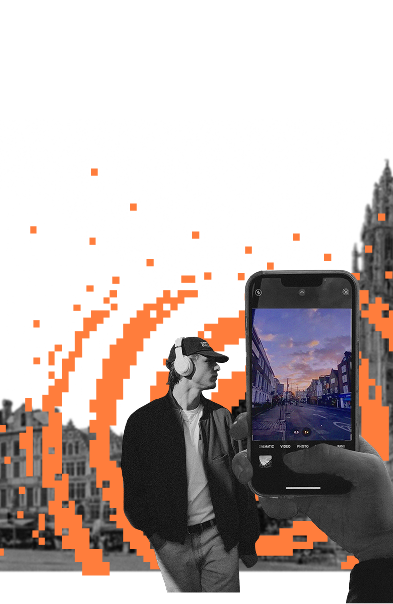
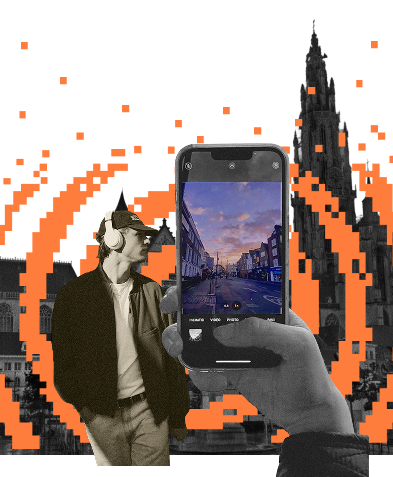
feat: update background asset, refine CSS typography, and standardize SVG markup in Home page

diff --git a/frontend/src/pages/Home.jsx b/frontend/src/pages/Home.jsx
@@ -12,7 +12,7 @@ import pano4 from '../assets/images/pano4.jpeg';
 //icons
 import antwerpLogo from '../assets/images/antwerpLogo.png';
 import logoAntwerpScenes from '../assets/images/logoantwerpscenes.png';
-import backgroundMoments from '../assets/images/cathedral_moments.png';
+import backgroundMoments from '../assets/images/backgroundmoments.png';
 import backgroundMomentsDesktop from '../assets/images/cathedral_moments.png';
 import qrCodeImg from '../assets/images/qrradar.png';
 import HeartIcon from '../assets/icons/Heart';
@@ -324,7 +324,7 @@ export default function Home({ userLocation }) {
             aria-label="Previous Panorama"
           >
             <svg width="18" height="18" viewBox="0 0 18 18" fill="none" xmlns="http://www.w3.org/2000/svg">
-              <path d="M11.25 13.5L6.75 9L11.25 4.5" stroke="white" strokeWidth="1.5" strokeLinecap="round" strokeLinejoin="round"/>
+              <path d="M11.25 13.5L6.75 9L11.25 4.5" stroke="white" strokeWidth="1.5" strokeLinecap="round" strokeLinejoin="round" />
             </svg>
           </button>
           <button
@@ -333,7 +333,7 @@ export default function Home({ userLocation }) {
             aria-label="Next Panorama"
           >
             <svg width="18" height="18" viewBox="0 0 18 18" fill="none" xmlns="http://www.w3.org/2000/svg">
-              <path d="M6.75 13.5L11.25 9L6.75 4.5" stroke="white" strokeWidth="1.5" strokeLinecap="round" strokeLinejoin="round"/>
+              <path d="M6.75 13.5L11.25 9L6.75 4.5" stroke="white" strokeWidth="1.5" strokeLinecap="round" strokeLinejoin="round" />
             </svg>
           </button>
         </div>
@@ -387,7 +387,7 @@ export default function Home({ userLocation }) {
           </div>
           <Link to="/radar-explained" className={styles['home__pano-extra-box-info-btn']}>
             <svg width="23" height="23" viewBox="0 0 23 23" fill="none" xmlns="http://www.w3.org/2000/svg">
-              <path d="M11.2041 22.4082C5.0166 22.4082 0 17.3916 0 11.2041C0 5.0166 5.0166 0 11.2041 0C17.3916 0 22.4082 5.0166 22.4082 11.2041C22.4082 17.3916 17.3916 22.4082 11.2041 22.4082ZM11.2041 19.9482C16.0381 19.9482 19.9482 16.0381 19.9482 11.2041C19.9482 6.37012 16.0381 2.45996 11.2041 2.45996C6.37012 2.45996 2.45996 6.37012 2.45996 11.2041C2.45996 16.0381 6.37012 19.9482 11.2041 19.9482ZM11.1611 7.83105C10.3447 7.83105 9.66797 7.16504 9.66797 6.34863C9.66797 5.5 10.3447 4.84473 11.1611 4.84473C11.9883 4.84473 12.6543 5.5 12.6543 6.34863C12.6543 7.16504 11.9883 7.83105 11.1611 7.83105ZM9.32422 17.0371C8.83008 17.0371 8.43262 16.6719 8.43262 16.1562C8.43262 15.6836 8.83008 15.2969 9.32422 15.2969H10.5596V11.1396H9.51758C9.0127 11.1396 8.62598 10.7852 8.62598 10.2695C8.62598 9.78613 9.0127 9.41016 9.51758 9.41016H11.5479C12.1816 9.41016 12.5146 9.85059 12.5146 10.5273V15.2969H13.6211C14.1152 15.2969 14.5127 15.6836 14.5127 16.1562C14.5127 16.6719 14.1152 17.0371 13.6211 17.0371H9.32422Z" fill="#FF82DC"/>
+              <path d="M11.2041 22.4082C5.0166 22.4082 0 17.3916 0 11.2041C0 5.0166 5.0166 0 11.2041 0C17.3916 0 22.4082 5.0166 22.4082 11.2041C22.4082 17.3916 17.3916 22.4082 11.2041 22.4082ZM11.2041 19.9482C16.0381 19.9482 19.9482 16.0381 19.9482 11.2041C19.9482 6.37012 16.0381 2.45996 11.2041 2.45996C6.37012 2.45996 2.45996 6.37012 2.45996 11.2041C2.45996 16.0381 6.37012 19.9482 11.2041 19.9482ZM11.1611 7.83105C10.3447 7.83105 9.66797 7.16504 9.66797 6.34863C9.66797 5.5 10.3447 4.84473 11.1611 4.84473C11.9883 4.84473 12.6543 5.5 12.6543 6.34863C12.6543 7.16504 11.9883 7.83105 11.1611 7.83105ZM9.32422 17.0371C8.83008 17.0371 8.43262 16.6719 8.43262 16.1562C8.43262 15.6836 8.83008 15.2969 9.32422 15.2969H10.5596V11.1396H9.51758C9.0127 11.1396 8.62598 10.7852 8.62598 10.2695C8.62598 9.78613 9.0127 9.41016 9.51758 9.41016H11.5479C12.1816 9.41016 12.5146 9.85059 12.5146 10.5273V15.2969H13.6211C14.1152 15.2969 14.5127 15.6836 14.5127 16.1562C14.5127 16.6719 14.1152 17.0371 13.6211 17.0371H9.32422Z" fill="#FF82DC" />
             </svg>
             <span>More info</span>
           </Link>
@@ -498,7 +498,7 @@ export default function Home({ userLocation }) {
             aria-label="Previous Stories"
           >
             <svg width="18" height="18" viewBox="0 0 18 18" fill="none" xmlns="http://www.w3.org/2000/svg">
-              <path d="M11.25 13.5L6.75 9L11.25 4.5" stroke="white" strokeWidth="1.5" strokeLinecap="round" strokeLinejoin="round"/>
+              <path d="M11.25 13.5L6.75 9L11.25 4.5" stroke="white" strokeWidth="1.5" strokeLinecap="round" strokeLinejoin="round" />
             </svg>
           </button>
           <button
@@ -507,7 +507,7 @@ export default function Home({ userLocation }) {
             aria-label="Next Stories"
           >
             <svg width="18" height="18" viewBox="0 0 18 18" fill="none" xmlns="http://www.w3.org/2000/svg">
-              <path d="M6.75 13.5L11.25 9L6.75 4.5" stroke="white" strokeWidth="1.5" strokeLinecap="round" strokeLinejoin="round"/>
+              <path d="M6.75 13.5L11.25 9L6.75 4.5" stroke="white" strokeWidth="1.5" strokeLinecap="round" strokeLinejoin="round" />
             </svg>
           </button>
         </div>
@@ -529,30 +529,30 @@ export default function Home({ userLocation }) {
 
           <div className={styles['home__left-actions-desktop']}>
             <div className={styles['home__filters-desktop']}>
-              <button 
+              <button
                 className={`${styles['home__filter-btn-desktop']} ${homeFilter === 'All' ? styles['home__filter-btn-desktop--active'] : ''}`}
                 onClick={() => setHomeFilter('All')}
               >
                 <svg width="15" height="15" viewBox="0 0 15 15" fill="none" xmlns="http://www.w3.org/2000/svg">
-                  <path d="M11.5078 6.89062C9.60156 6.89062 8.0625 5.35156 8.0625 3.44531C8.0625 1.53906 9.60156 0 11.5078 0C13.4141 0 14.9531 1.53906 14.9531 3.44531C14.9531 5.35156 13.4141 6.89062 11.5078 6.89062ZM3.44531 6.89062C1.53906 6.89062 0 5.35156 0 3.44531C0 1.54688 1.53906 0 3.44531 0C5.35156 0 6.89062 1.54688 6.89062 3.44531C6.89062 5.35156 5.35156 6.89062 3.44531 6.89062ZM11.5078 14.9453C9.60156 14.9453 8.0625 13.4062 8.0625 11.5C8.0625 9.60156 9.60156 8.05469 11.5078 8.05469C13.4141 8.05469 14.9531 9.60156 14.9531 11.5C14.9531 13.4062 13.4141 14.9453 11.5078 14.9453ZM3.44531 14.9531C1.53906 14.9531 0 13.4062 0 11.5078C0 9.60156 1.53906 8.0625 3.44531 8.0625C5.35156 8.0625 6.89062 9.60156 6.89062 11.5078C6.89062 13.4062 5.35156 14.9531 3.44531 14.9531Z" fill="currentColor"/>
+                  <path d="M11.5078 6.89062C9.60156 6.89062 8.0625 5.35156 8.0625 3.44531C8.0625 1.53906 9.60156 0 11.5078 0C13.4141 0 14.9531 1.53906 14.9531 3.44531C14.9531 5.35156 13.4141 6.89062 11.5078 6.89062ZM3.44531 6.89062C1.53906 6.89062 0 5.35156 0 3.44531C0 1.54688 1.53906 0 3.44531 0C5.35156 0 6.89062 1.54688 6.89062 3.44531C6.89062 5.35156 5.35156 6.89062 3.44531 6.89062ZM11.5078 14.9453C9.60156 14.9453 8.0625 13.4062 8.0625 11.5C8.0625 9.60156 9.60156 8.05469 11.5078 8.05469C13.4141 8.05469 14.9531 9.60156 14.9531 11.5C14.9531 13.4062 13.4141 14.9453 11.5078 14.9453ZM3.44531 14.9531C1.53906 14.9531 0 13.4062 0 11.5078C0 9.60156 1.53906 8.0625 3.44531 8.0625C5.35156 8.0625 6.89062 9.60156 6.89062 11.5078C6.89062 13.4062 5.35156 14.9531 3.44531 14.9531Z" fill="currentColor" />
                 </svg>
                 <span>ALL</span>
               </button>
-              <button 
+              <button
                 className={`${styles['home__filter-btn-desktop']} ${homeFilter === 'Locals' ? styles['home__filter-btn-desktop--active'] : ''}`}
                 onClick={() => setHomeFilter('Locals')}
               >
                 <svg width="22" height="15" viewBox="0 0 22 15" fill="none" xmlns="http://www.w3.org/2000/svg">
-                  <path d="M15.1094 7.39844C13.1953 7.39844 11.6562 5.72656 11.6562 3.66406C11.6562 1.64844 13.2109 0 15.1094 0C17.0156 0 18.5547 1.625 18.5547 3.65625C18.5547 5.71875 17.0156 7.39844 15.1094 7.39844ZM6.01562 7.49219C4.35938 7.49219 3.00781 6.03125 3.00781 4.21094C3.00781 2.45312 4.36719 0.992188 6.01562 0.992188C7.67969 0.992188 9.02344 2.42969 9.02344 4.20312C9.02344 6.02344 7.67969 7.49219 6.01562 7.49219ZM15.1094 5.91406C16.1562 5.91406 17.0234 4.92188 17.0234 3.65625C17.0234 2.42188 16.1562 1.48438 15.1094 1.48438C14.0703 1.48438 13.1953 2.4375 13.1953 3.66406C13.1953 4.9375 14.0703 5.91406 15.1094 5.91406ZM6.01562 6.03125C6.85938 6.03125 7.57031 5.23438 7.57031 4.20312C7.57031 3.22656 6.86719 2.44531 6.01562 2.44531C5.17188 2.44531 4.46094 3.24219 4.46094 4.21094C4.46094 5.23438 5.17188 6.03125 6.01562 6.03125ZM1.74219 14.6875C0.578125 14.6875 0 14.1797 0 13.2109C0 10.6172 2.6875 8.25781 6.00781 8.25781C7.17969 8.25781 8.42969 8.57812 9.40625 9.15625C8.92969 9.46094 8.57812 9.82812 8.30469 10.25C7.67969 9.91406 6.8125 9.71094 6.00781 9.71094C3.57812 9.71094 1.54688 11.3516 1.54688 13.0469C1.54688 13.1719 1.60156 13.2344 1.74219 13.2344H7.07812C7.02344 13.7891 7.30469 14.4141 7.76562 14.6875H1.74219ZM10.2578 14.6875C8.875 14.6875 8.20312 14.2344 8.20312 13.2734C8.20312 11.0703 10.9453 8.26562 15.1016 8.26562C19.2656 8.26562 22.0078 11.0703 22.0078 13.2734C22.0078 14.2344 21.3281 14.6875 19.9453 14.6875H10.2578ZM10.0859 13.2031H20.1172C20.2891 13.2031 20.3516 13.1484 20.3516 13.0156C20.3516 11.8828 18.4531 9.75 15.1016 9.75C11.75 9.75 9.85938 11.8828 9.85938 13.0156C9.85938 13.1484 9.92188 13.2031 10.0859 13.2031Z" fill="currentColor"/>
+                  <path d="M15.1094 7.39844C13.1953 7.39844 11.6562 5.72656 11.6562 3.66406C11.6562 1.64844 13.2109 0 15.1094 0C17.0156 0 18.5547 1.625 18.5547 3.65625C18.5547 5.71875 17.0156 7.39844 15.1094 7.39844ZM6.01562 7.49219C4.35938 7.49219 3.00781 6.03125 3.00781 4.21094C3.00781 2.45312 4.36719 0.992188 6.01562 0.992188C7.67969 0.992188 9.02344 2.42969 9.02344 4.20312C9.02344 6.02344 7.67969 7.49219 6.01562 7.49219ZM15.1094 5.91406C16.1562 5.91406 17.0234 4.92188 17.0234 3.65625C17.0234 2.42188 16.1562 1.48438 15.1094 1.48438C14.0703 1.48438 13.1953 2.4375 13.1953 3.66406C13.1953 4.9375 14.0703 5.91406 15.1094 5.91406ZM6.01562 6.03125C6.85938 6.03125 7.57031 5.23438 7.57031 4.20312C7.57031 3.22656 6.86719 2.44531 6.01562 2.44531C5.17188 2.44531 4.46094 3.24219 4.46094 4.21094C4.46094 5.23438 5.17188 6.03125 6.01562 6.03125ZM1.74219 14.6875C0.578125 14.6875 0 14.1797 0 13.2109C0 10.6172 2.6875 8.25781 6.00781 8.25781C7.17969 8.25781 8.42969 8.57812 9.40625 9.15625C8.92969 9.46094 8.57812 9.82812 8.30469 10.25C7.67969 9.91406 6.8125 9.71094 6.00781 9.71094C3.57812 9.71094 1.54688 11.3516 1.54688 13.0469C1.54688 13.1719 1.60156 13.2344 1.74219 13.2344H7.07812C7.02344 13.7891 7.30469 14.4141 7.76562 14.6875H1.74219ZM10.2578 14.6875C8.875 14.6875 8.20312 14.2344 8.20312 13.2734C8.20312 11.0703 10.9453 8.26562 15.1016 8.26562C19.2656 8.26562 22.0078 11.0703 22.0078 13.2734C22.0078 14.2344 21.3281 14.6875 19.9453 14.6875H10.2578ZM10.0859 13.2031H20.1172C20.2891 13.2031 20.3516 13.1484 20.3516 13.0156C20.3516 11.8828 18.4531 9.75 15.1016 9.75C11.75 9.75 9.85938 11.8828 9.85938 13.0156C9.85938 13.1484 9.92188 13.2031 10.0859 13.2031Z" fill="currentColor" />
                 </svg>
                 <span>Locals</span>
               </button>
-              <button 
+              <button
                 className={`${styles['home__filter-btn-desktop']} ${homeFilter === 'Visitors' ? styles['home__filter-btn-desktop--active'] : ''}`}
                 onClick={() => setHomeFilter('Visitors')}
               >
                 <svg width="17" height="17" viewBox="0 0 17 17" fill="none" xmlns="http://www.w3.org/2000/svg">
-                  <path d="M8.14844 16.2969C3.64844 16.2969 0 12.6484 0 8.14844C0 3.64844 3.64844 0 8.14844 0C12.6484 0 16.2969 3.64844 16.2969 8.14844C16.2969 12.6484 12.6484 16.2969 8.14844 16.2969ZM6.14844 6.50781C6.54688 6.64062 6.96094 6.74219 7.375 6.82031C7.52344 4.92969 8.08594 3.09375 9.00781 1.45312C8.92969 1.4375 8.84375 1.42969 8.76562 1.42188C7.44531 2.64062 6.42969 4.11719 5.78125 5.75C5.97656 5.94531 6.10938 6.21094 6.14844 6.50781ZM2.60156 4.29688C3.07031 4.77344 3.58594 5.1875 4.13281 5.54688C4.30469 5.44531 4.49219 5.375 4.70312 5.35938C5.26562 3.9375 6.07812 2.625 7.10938 1.47656C5.25 1.76562 3.64062 2.8125 2.60156 4.29688ZM10.7031 4.32812C10.7031 4.89844 10.7656 5.46094 10.8828 6C11.2656 6.01562 11.6094 6.1875 11.8438 6.46094C12.6953 6.16406 13.4922 5.73438 14.2188 5.1875C13.5391 3.79688 12.3984 2.67969 11 2.02344C10.7891 2.77344 10.6953 3.55469 10.7031 4.32812ZM9.55469 4.33594C9.54688 3.74219 9.59375 3.16406 9.69531 2.59375C9.03125 3.94531 8.63281 5.41406 8.52344 6.94531C8.67188 6.95312 8.82031 6.95312 8.96875 6.95312C9.17188 6.95312 9.375 6.94531 9.57031 6.92969C9.625 6.76562 9.70312 6.61719 9.8125 6.48438C9.64844 5.78906 9.55469 5.07031 9.55469 4.33594ZM1.39844 8.14844C1.39844 8.21875 1.39844 8.29688 1.39844 8.375C2.14062 9 2.94531 9.52344 3.78125 9.94531C3.79688 9.19531 3.875 8.46094 4.00781 7.73438C3.69531 7.48438 3.49219 7.10938 3.49219 6.67969C3.49219 6.625 3.5 6.57031 3.5 6.51562C2.96875 6.17188 2.46875 5.78125 2.00781 5.34375C1.61719 6.19531 1.39844 7.14844 1.39844 8.14844ZM14.8984 8.14844C14.8984 7.50781 14.8125 6.89844 14.6484 6.3125C13.875 6.85156 13.0312 7.27344 12.1406 7.57812C12.0859 7.86719 11.9453 8.125 11.7344 8.3125C12.1641 9.10156 12.7266 9.82031 13.3984 10.4375C13.8359 10.2656 14.2656 10.0703 14.6875 9.84375C14.8281 9.30469 14.8984 8.73438 14.8984 8.14844ZM4.92969 10.4531C5.70312 10.7422 6.50781 10.9531 7.32031 11.0781C7.39844 10.9219 7.51562 10.7891 7.64844 10.6797C7.45312 9.79688 7.35156 8.89062 7.33594 7.96875C6.8125 7.89062 6.29688 7.76562 5.79688 7.60156C5.61719 7.78906 5.39062 7.92188 5.125 7.98438C4.97656 8.78906 4.91406 9.61719 4.92969 10.4531ZM8.96875 8.10156C8.8125 8.10156 8.64844 8.09375 8.49219 8.09375C8.50781 8.875 8.60156 9.64844 8.77344 10.4062C9.21094 10.5 9.57031 10.8047 9.73438 11.2109C10.5547 11.1641 11.3672 11.0391 12.1719 10.8281C11.5469 10.1797 11.0234 9.4375 10.6094 8.64062C10.25 8.57812 9.9375 8.36719 9.73438 8.07031C9.48438 8.08594 9.22656 8.10156 8.96875 8.10156ZM1.66406 10.0234C2.08594 11.4922 2.99219 12.75 4.19531 13.625C3.99219 12.8359 3.85938 12.0391 3.8125 11.2344C3.0625 10.9062 2.34375 10.5 1.66406 10.0234ZM8.14844 14.8984C8.55469 14.8984 8.96094 14.8594 9.34375 14.7891C8.99219 14.2344 8.6875 13.6562 8.42969 13.0625C7.89062 13.0312 7.44531 12.6953 7.25781 12.2266C6.49219 12.1172 5.73438 11.9375 5 11.6953C5.10938 12.6328 5.32812 13.5469 5.67188 14.4297C6.4375 14.7344 7.27344 14.8984 8.14844 14.8984ZM9.49219 12.6172C9.77344 13.2656 10.1172 13.8828 10.5078 14.4766C11.7734 14 12.8516 13.1641 13.625 12.0938C13.4688 11.9766 13.3125 11.8594 13.1562 11.7422C12.0234 12.1094 10.8516 12.3125 9.67969 12.3594C9.625 12.4531 9.5625 12.5391 9.49219 12.6172Z" fill="currentColor"/>
+                  <path d="M8.14844 16.2969C3.64844 16.2969 0 12.6484 0 8.14844C0 3.64844 3.64844 0 8.14844 0C12.6484 0 16.2969 3.64844 16.2969 8.14844C16.2969 12.6484 12.6484 16.2969 8.14844 16.2969ZM6.14844 6.50781C6.54688 6.64062 6.96094 6.74219 7.375 6.82031C7.52344 4.92969 8.08594 3.09375 9.00781 1.45312C8.92969 1.4375 8.84375 1.42969 8.76562 1.42188C7.44531 2.64062 6.42969 4.11719 5.78125 5.75C5.97656 5.94531 6.10938 6.21094 6.14844 6.50781ZM2.60156 4.29688C3.07031 4.77344 3.58594 5.1875 4.13281 5.54688C4.30469 5.44531 4.49219 5.375 4.70312 5.35938C5.26562 3.9375 6.07812 2.625 7.10938 1.47656C5.25 1.76562 3.64062 2.8125 2.60156 4.29688ZM10.7031 4.32812C10.7031 4.89844 10.7656 5.46094 10.8828 6C11.2656 6.01562 11.6094 6.1875 11.8438 6.46094C12.6953 6.16406 13.4922 5.73438 14.2188 5.1875C13.5391 3.79688 12.3984 2.67969 11 2.02344C10.7891 2.77344 10.6953 3.55469 10.7031 4.32812ZM9.55469 4.33594C9.54688 3.74219 9.59375 3.16406 9.69531 2.59375C9.03125 3.94531 8.63281 5.41406 8.52344 6.94531C8.67188 6.95312 8.82031 6.95312 8.96875 6.95312C9.17188 6.95312 9.375 6.94531 9.57031 6.92969C9.625 6.76562 9.70312 6.61719 9.8125 6.48438C9.64844 5.78906 9.55469 5.07031 9.55469 4.33594ZM1.39844 8.14844C1.39844 8.21875 1.39844 8.29688 1.39844 8.375C2.14062 9 2.94531 9.52344 3.78125 9.94531C3.79688 9.19531 3.875 8.46094 4.00781 7.73438C3.69531 7.48438 3.49219 7.10938 3.49219 6.67969C3.49219 6.625 3.5 6.57031 3.5 6.51562C2.96875 6.17188 2.46875 5.78125 2.00781 5.34375C1.61719 6.19531 1.39844 7.14844 1.39844 8.14844ZM14.8984 8.14844C14.8984 7.50781 14.8125 6.89844 14.6484 6.3125C13.875 6.85156 13.0312 7.27344 12.1406 7.57812C12.0859 7.86719 11.9453 8.125 11.7344 8.3125C12.1641 9.10156 12.7266 9.82031 13.3984 10.4375C13.8359 10.2656 14.2656 10.0703 14.6875 9.84375C14.8281 9.30469 14.8984 8.73438 14.8984 8.14844ZM4.92969 10.4531C5.70312 10.7422 6.50781 10.9531 7.32031 11.0781C7.39844 10.9219 7.51562 10.7891 7.64844 10.6797C7.45312 9.79688 7.35156 8.89062 7.33594 7.96875C6.8125 7.89062 6.29688 7.76562 5.79688 7.60156C5.61719 7.78906 5.39062 7.92188 5.125 7.98438C4.97656 8.78906 4.91406 9.61719 4.92969 10.4531ZM8.96875 8.10156C8.8125 8.10156 8.64844 8.09375 8.49219 8.09375C8.50781 8.875 8.60156 9.64844 8.77344 10.4062C9.21094 10.5 9.57031 10.8047 9.73438 11.2109C10.5547 11.1641 11.3672 11.0391 12.1719 10.8281C11.5469 10.1797 11.0234 9.4375 10.6094 8.64062C10.25 8.57812 9.9375 8.36719 9.73438 8.07031C9.48438 8.08594 9.22656 8.10156 8.96875 8.10156ZM1.66406 10.0234C2.08594 11.4922 2.99219 12.75 4.19531 13.625C3.99219 12.8359 3.85938 12.0391 3.8125 11.2344C3.0625 10.9062 2.34375 10.5 1.66406 10.0234ZM8.14844 14.8984C8.55469 14.8984 8.96094 14.8594 9.34375 14.7891C8.99219 14.2344 8.6875 13.6562 8.42969 13.0625C7.89062 13.0312 7.44531 12.6953 7.25781 12.2266C6.49219 12.1172 5.73438 11.9375 5 11.6953C5.10938 12.6328 5.32812 13.5469 5.67188 14.4297C6.4375 14.7344 7.27344 14.8984 8.14844 14.8984ZM9.49219 12.6172C9.77344 13.2656 10.1172 13.8828 10.5078 14.4766C11.7734 14 12.8516 13.1641 13.625 12.0938C13.4688 11.9766 13.3125 11.8594 13.1562 11.7422C12.0234 12.1094 10.8516 12.3125 9.67969 12.3594C9.625 12.4531 9.5625 12.5391 9.49219 12.6172Z" fill="currentColor" />
                 </svg>
                 <span>Visitors</span>
               </button>

diff --git a/frontend/src/pages/Home.module.css b/frontend/src/pages/Home.module.css
@@ -1030,17 +1030,18 @@
     background: #FFF;
     border: none;
     cursor: pointer;
-    
+
     /* Typography settings requested by user */
     color: #000;
     font-family: var(--font-spartan);
     font-size: 18px;
     font-style: normal;
     font-weight: 500;
-    line-height: 28px; /* 155.556% */
+    line-height: 28px;
+    /* 155.556% */
     text-box-trim: both;
     text-box-edge: cap;
-    
+
     transition: background-color 0.2s ease, color 0.2s ease;
   }
 
